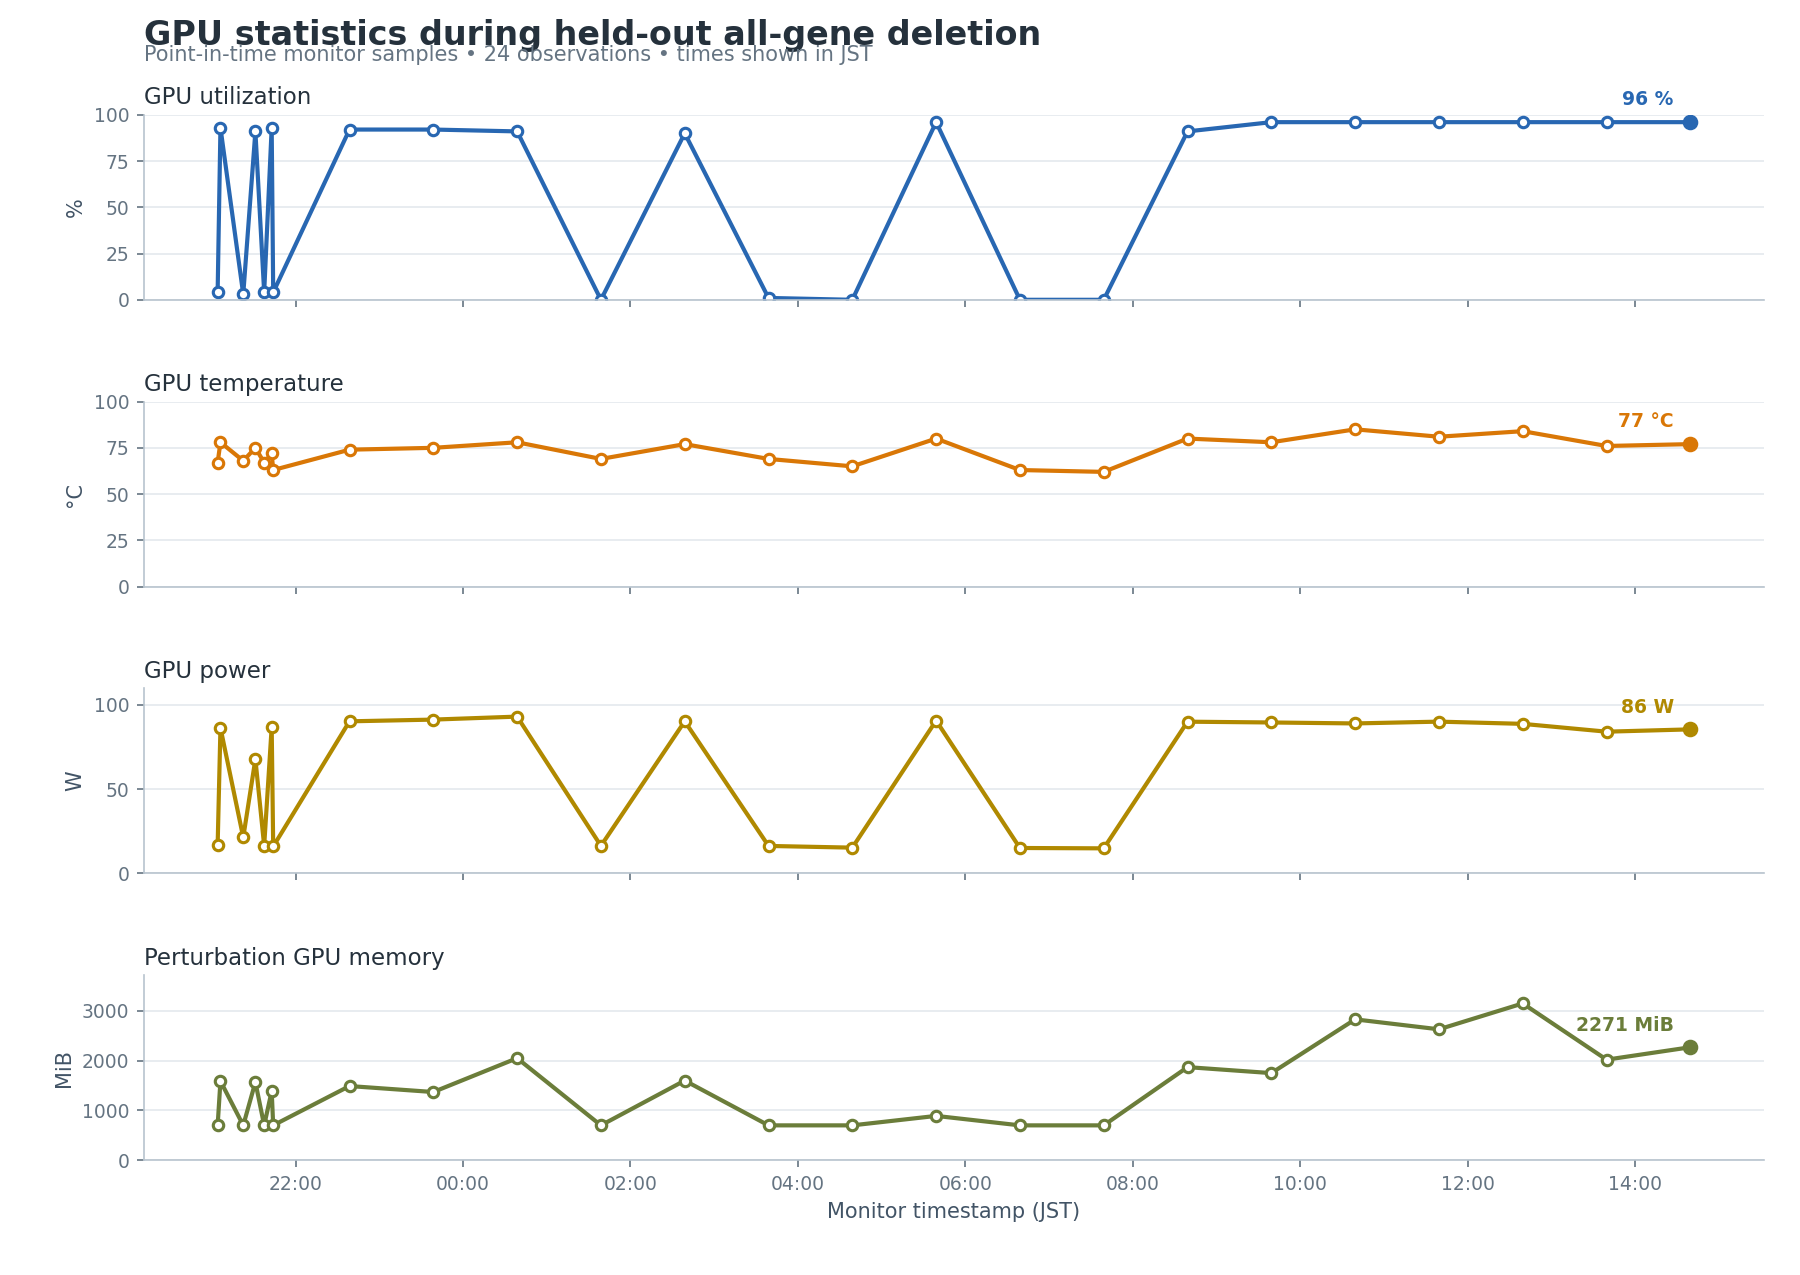
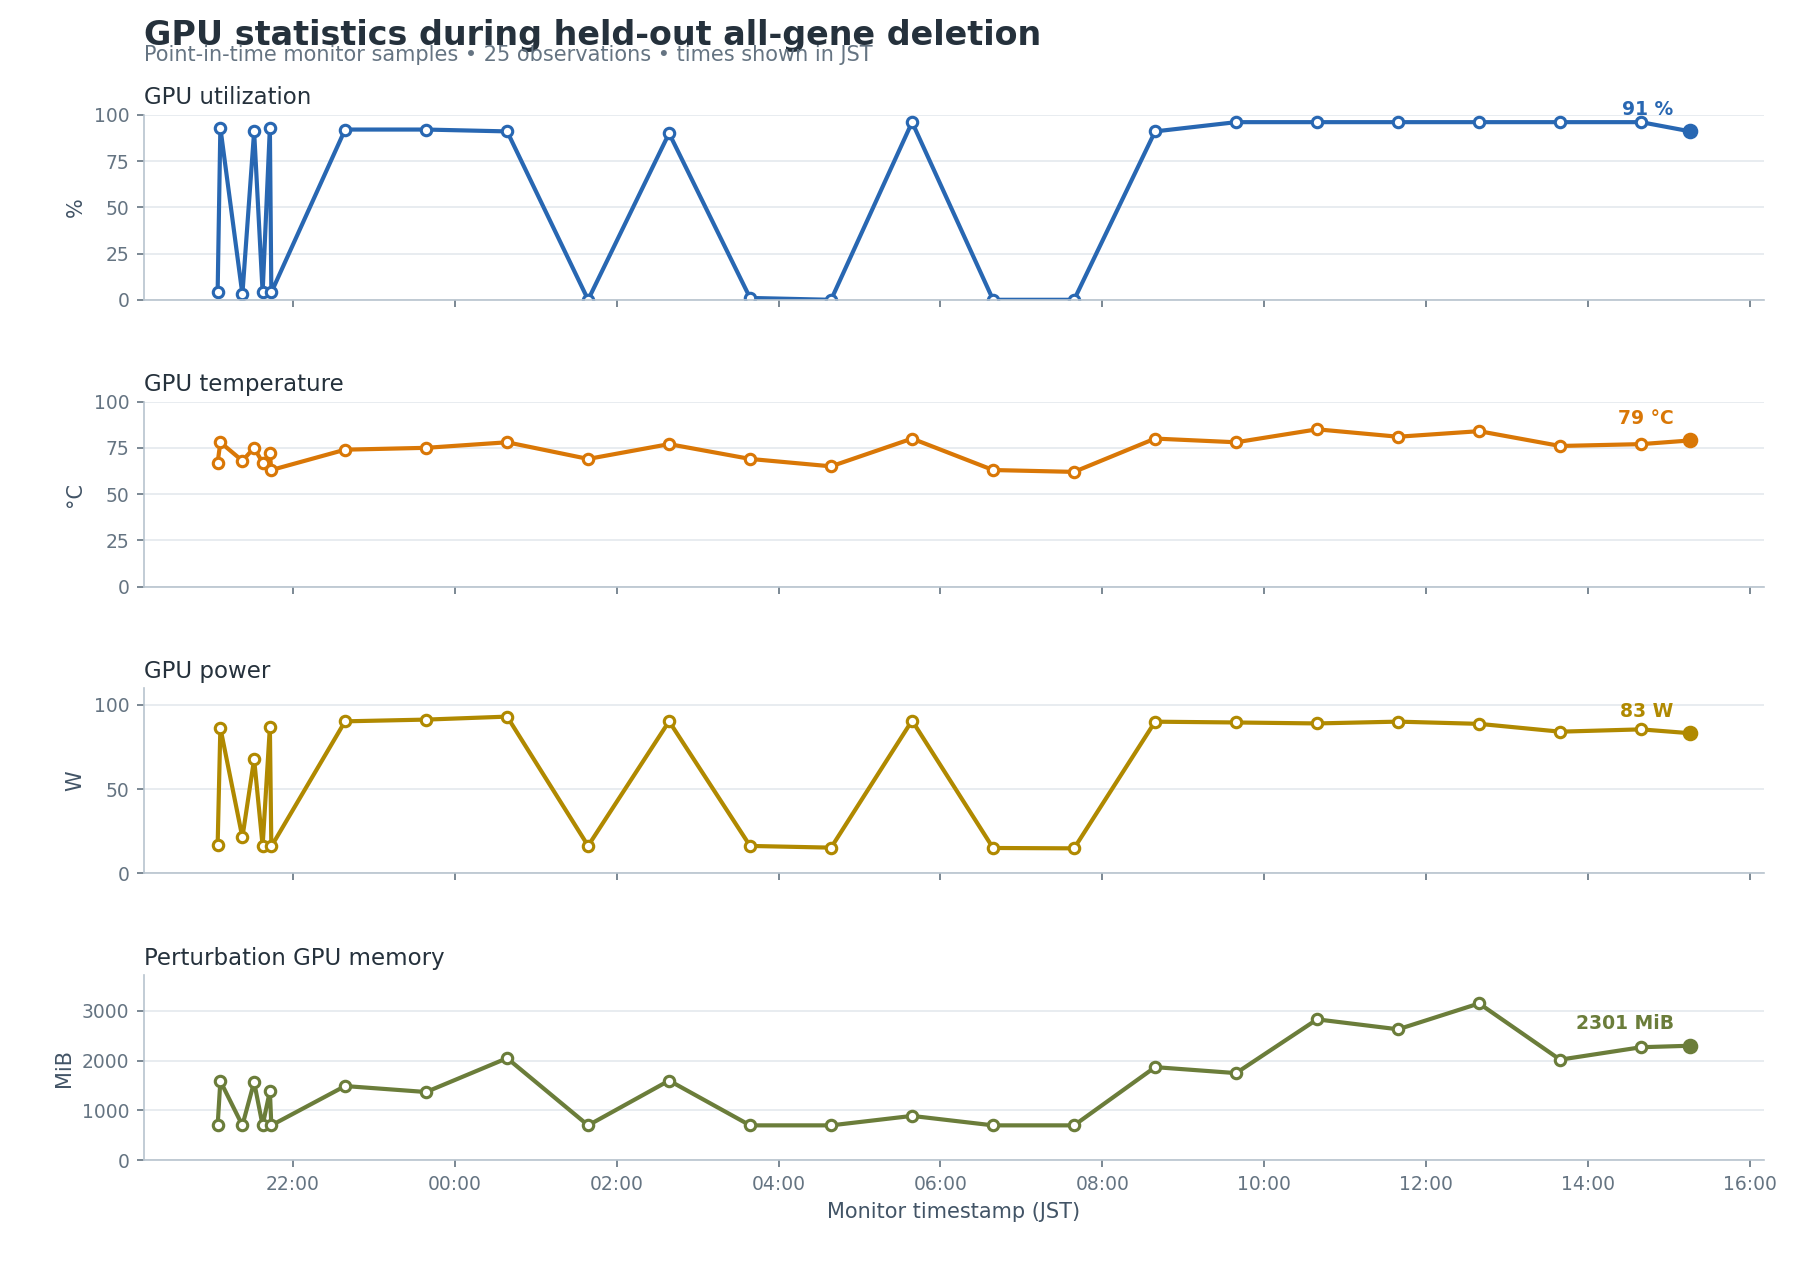
monitor: update perturbation status 2026-07-18 15:16 JST

diff --git a/current_workflow/monitoring/GPU_PROGRESS_REPORT.md b/current_workflow/monitoring/GPU_PROGRESS_REPORT.md
@@ -12,20 +12,20 @@
 
 ## Current snapshot
 
-**What changed since the prior report:** The run advanced by 93 cells and 4 shards, lifting completion from 66.82% to 69.58%. LUSC remained complete; LUAD remained complete; NORMAL moved from 287 to 380 cells; GPU utilization stayed at 96%.
+**What changed since the prior report:** The run advanced by 52 cells and 2 shards, lifting completion from 69.58% to 71.12%. LUSC remained complete; LUAD remained complete; NORMAL moved from 380 to 432 cells; GPU utilization fell from 96% to 91%.
 
 | Metric | Value |
 | --- | --- |
-| Generated | 2026-07-18T14:39:30+09:00 |
+| Generated | 2026-07-18T15:16:02+09:00 |
 | Run status | RUNNING |
-| Overall cell progress | 2,351 / 3,379 (69.58%) |
+| Overall cell progress | 2,403 / 3,379 (71.12%) |
 | GPU | NVIDIA GB10 |
-| GPU utilization | 96% |
-| GPU temperature | 77 C |
-| GPU power | 85.5 W |
-| Perturbation GPU memory | 2,271 MiB |
-| System memory used | 40.4 GiB |
-| System memory available | 79.3 GiB |
+| GPU utilization | 91% |
+| GPU temperature | 79 C |
+| GPU power | 83.2 W |
+| Perturbation GPU memory | 2,301 MiB |
+| System memory used | 39.3 GiB |
+| System memory available | 80.4 GiB |
 | Swap used | 0.0 GiB |
 
 ### Progress by source
@@ -34,11 +34,11 @@
 | --- | --- | --- | --- | --- |
 | LUSC | 560 / 560 (100.00%) | 23 / 23 | 1,120 | 348,313 / 348,313 |
 | LUAD | 1,411 / 1,411 (100.00%) | 57 / 57 | 2,822 | 1,150,097 / 1,150,097 |
-| NORMAL | 380 / 1,408 (26.99%) | 15 / 57 | 764 | 387,539 / 1,439,366 |
+| NORMAL | 432 / 1,408 (30.68%) | 17 / 57 | 868 | 439,324 / 1,439,366 |
 
 ## Final statistical comparisons
 
-**0 / 6 comparisons are complete. Final aggregation waits for the deletion screen, currently 95 / 137 shards.**
+**0 / 6 comparisons are complete. Final aggregation waits for the deletion screen, currently 97 / 137 shards.**
 
 | Comparison | State | Result rows | Updated | Output |
 | --- | --- | --- | --- | --- |
@@ -58,7 +58,7 @@ six comparisons complete and coverage, FDR, and donor-consistency checks pass.
 Each thumbnail is a single-cell diagram that encodes overall progress and the
 LUAD, LUSC, and NORMAL pathology balance at that snapshot.
 
-<table><thead><tr><th align="center">Single-cell snapshot</th><th align="center">Single-cell snapshot</th><th align="center">Single-cell snapshot</th></tr></thead><tbody><tr><td align="center" valign="top"><img src="snapshot_gallery/snapshot_20260718T143930+0900.svg" alt="Snapshot 2026-07-18T14:39:30+09:00" width="260"/><br/><sub>2026-07-18T14:39:30+09:00 · 69.58% · 2,351 cells</sub></td><td align="center" valign="top"><img src="snapshot_gallery/snapshot_20260718T133927+0900.svg" alt="Snapshot 2026-07-18T13:39:27+09:00" width="260"/><br/><sub>2026-07-18T13:39:27+09:00 · 66.82% · 2,258 cells</sub></td><td align="center" valign="top"><img src="snapshot_gallery/snapshot_20260718T123923+0900.svg" alt="Snapshot 2026-07-18T12:39:23+09:00" width="260"/><br/><sub>2026-07-18T12:39:23+09:00 · 64.28% · 2,172 cells</sub></td></tr><tr><td align="center" valign="top"><img src="snapshot_gallery/snapshot_20260718T113920+0900.svg" alt="Snapshot 2026-07-18T11:39:20+09:00" width="260"/><br/><sub>2026-07-18T11:39:20+09:00 · 61.35% · 2,073 cells</sub></td><td align="center" valign="top"><img src="snapshot_gallery/snapshot_20260718T103917+0900.svg" alt="Snapshot 2026-07-18T10:39:17+09:00" width="260"/><br/><sub>2026-07-18T10:39:17+09:00 · 58.42% · 1,974 cells</sub></td><td align="center" valign="top"><img src="snapshot_gallery/snapshot_20260718T093914+0900.svg" alt="Snapshot 2026-07-18T09:39:14+09:00" width="260"/><br/><sub>2026-07-18T09:39:14+09:00 · 54.72% · 1,849 cells</sub></td></tr></tbody></table>
+<table><thead><tr><th align="center">Single-cell snapshot</th><th align="center">Single-cell snapshot</th><th align="center">Single-cell snapshot</th></tr></thead><tbody><tr><td align="center" valign="top"><img src="snapshot_gallery/snapshot_20260718T151602+0900.svg" alt="Snapshot 2026-07-18T15:16:02+09:00" width="260"/><br/><sub>2026-07-18T15:16:02+09:00 · 71.12% · 2,403 cells</sub></td><td align="center" valign="top"><img src="snapshot_gallery/snapshot_20260718T143930+0900.svg" alt="Snapshot 2026-07-18T14:39:30+09:00" width="260"/><br/><sub>2026-07-18T14:39:30+09:00 · 69.58% · 2,351 cells</sub></td><td align="center" valign="top"><img src="snapshot_gallery/snapshot_20260718T133927+0900.svg" alt="Snapshot 2026-07-18T13:39:27+09:00" width="260"/><br/><sub>2026-07-18T13:39:27+09:00 · 66.82% · 2,258 cells</sub></td></tr><tr><td align="center" valign="top"><img src="snapshot_gallery/snapshot_20260718T123923+0900.svg" alt="Snapshot 2026-07-18T12:39:23+09:00" width="260"/><br/><sub>2026-07-18T12:39:23+09:00 · 64.28% · 2,172 cells</sub></td><td align="center" valign="top"><img src="snapshot_gallery/snapshot_20260718T113920+0900.svg" alt="Snapshot 2026-07-18T11:39:20+09:00" width="260"/><br/><sub>2026-07-18T11:39:20+09:00 · 61.35% · 2,073 cells</sub></td><td align="center" valign="top"><img src="snapshot_gallery/snapshot_20260718T103917+0900.svg" alt="Snapshot 2026-07-18T10:39:17+09:00" width="260"/><br/><sub>2026-07-18T10:39:17+09:00 · 58.42% · 1,974 cells</sub></td></tr></tbody></table>
 
 ## Monitoring history
 
@@ -70,6 +70,7 @@ The history table below shows the newest samples first.
 
 | Timestamp | Cells | Progress | GPU util | Temp | Power | Shards |
 | --- | --- | --- | --- | --- | --- | --- |
+| 2026-07-18T15:16:02+09:00 | 2,403 | 71.12% | 91% | 79 C | 83.2 W | 97 |
 | 2026-07-18T14:39:30+09:00 | 2,351 | 69.58% | 96% | 77 C | 85.5 W | 95 |
 | 2026-07-18T13:39:27+09:00 | 2,258 | 66.82% | 96% | 76 C | 84.1 W | 91 |
 | 2026-07-18T12:39:23+09:00 | 2,172 | 64.28% | 96% | 84 C | 88.8 W | 88 |
@@ -77,7 +78,6 @@ The history table below shows the newest samples first.
 | 2026-07-18T10:39:17+09:00 | 1,974 | 58.42% | 96% | 85 C | 89.0 W | 80 |
 | 2026-07-18T09:39:14+09:00 | 1,849 | 54.72% | 96% | 78 C | 89.6 W | 74 |
 | 2026-07-18T08:39:11+09:00 | 1,717 | 50.81% | 91% | 80 C | 90.1 W | 69 |
-| 2026-07-18T07:39:07+09:00 | 1,577 | 46.67% | 0% | 62 C | 14.9 W | 63 |
 
 ## Job notes
 
